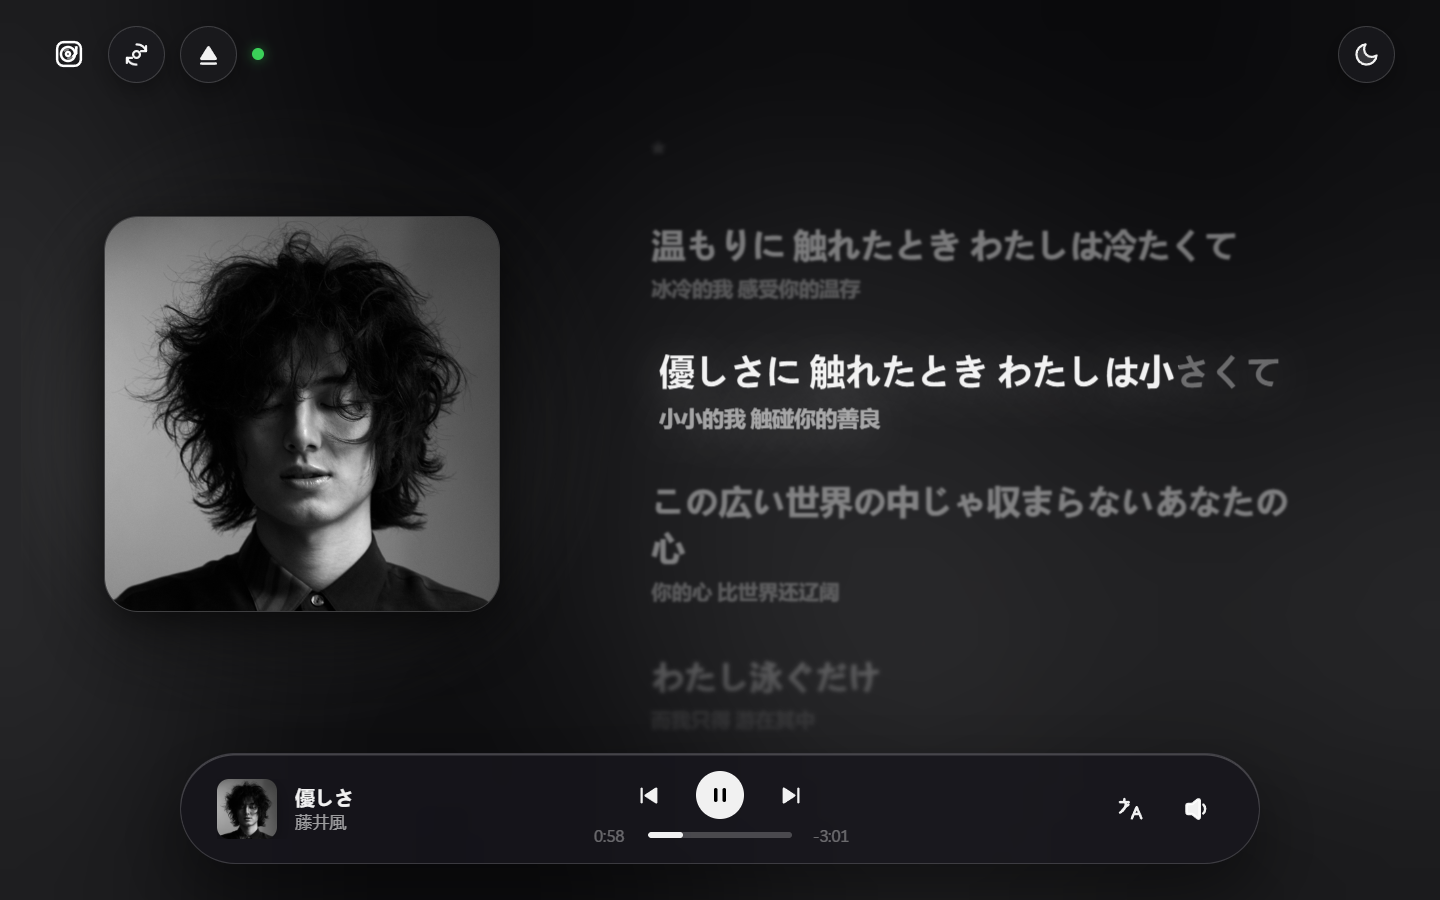
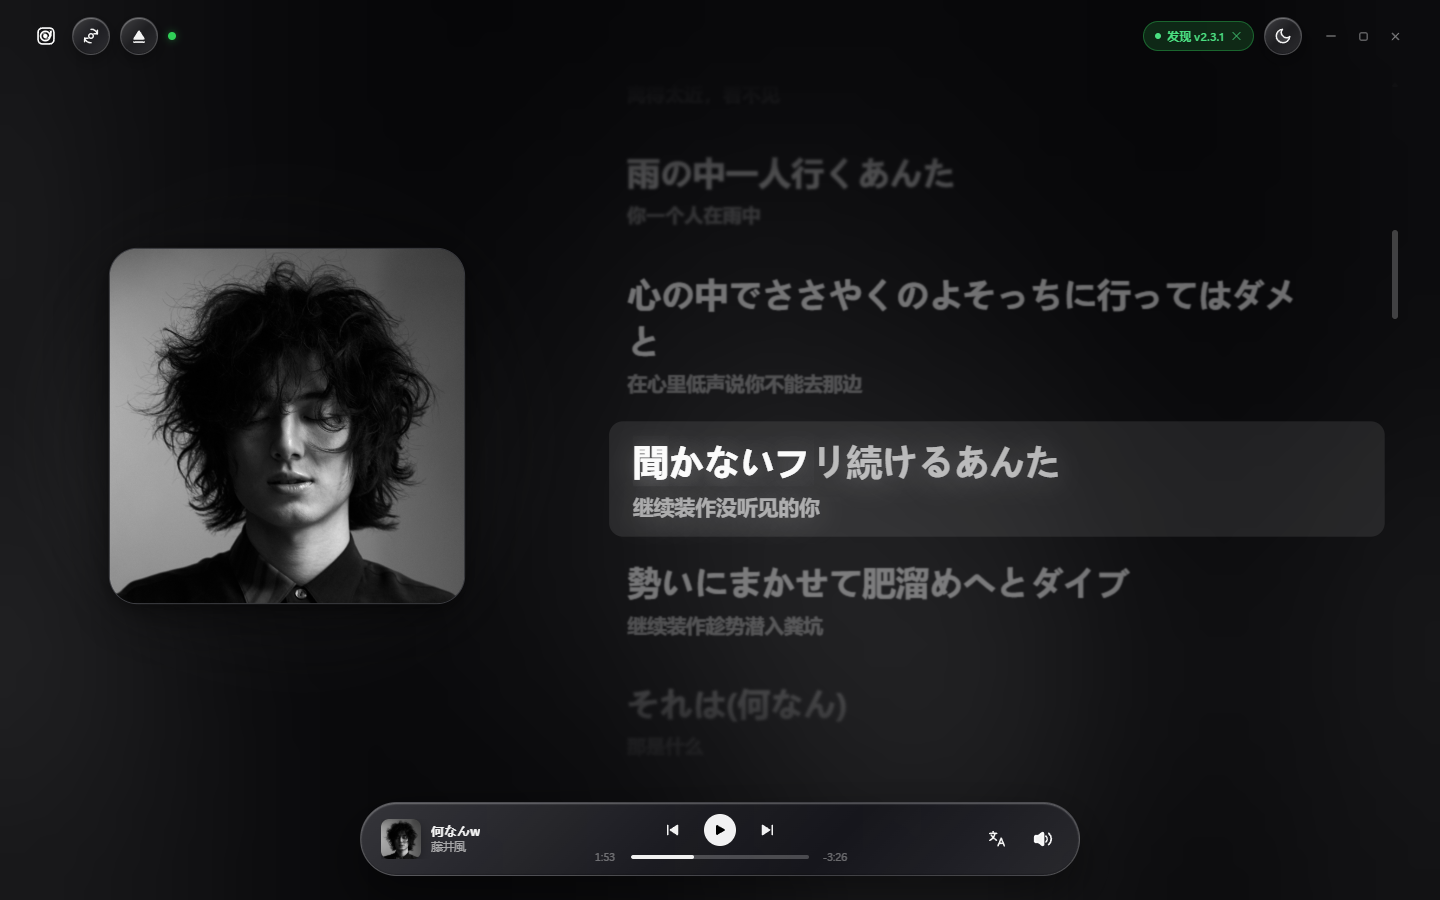
docs: 更新官网至 Discflow v2.3.1 并替换全新实机演示截图

diff --git a/index.html b/index.html
@@ -4,7 +4,7 @@
   <meta charset="UTF-8">
   <meta name="viewport" content="width=device-width, initial-scale=1.0">
   <title>Discflow — 献给实体唱片的 Windows 原生播放器</title>
-  <meta name="description" content="Discflow 是一款面向 Windows 的原生 Hi-Fi CD 与无损专辑播放器，支持光驱直读、WAV 无损归档、双语逐字歌词与黑白双主题。">
+  <meta name="description" content="Discflow v2.3.1 是一款面向 Windows 的原生 Hi-Fi CD 与无损专辑播放器，支持光驱直读、零拷贝 WAV 极速归档、双语逐字歌词、黑白双主题与应用内自更新。">
   <link rel="icon" type="image/svg+xml" href="assets/icon.svg?v=2">
   <link rel="preconnect" href="https://fonts.googleapis.com">
   <link rel="preconnect" href="https://fonts.gstatic.com" crossorigin>
@@ -35,9 +35,9 @@
 
       <div class="nav-actions">
         <a href="https://github.com/JiAng10es/Discflow" target="_blank" rel="noopener noreferrer" class="nav-ghost-link">GitHub 源码</a>
-        <a href="https://github.com/JiAng10es/Discflow/releases/download/v2.0.7/Discflow.exe" class="btn btn--primary btn--sm">
+        <a href="https://github.com/JiAng10es/Discflow/releases/download/v2.3.1/Discflow.exe" class="btn btn--primary btn--sm">
           <i data-lucide="download" width="15" height="15"></i>
-          <span>下载 Windows 版</span>
+          <span>下载 v2.3.1</span>
         </a>
         <button type="button" class="mobile-menu-btn" id="mobile-menu-btn" aria-label="打开导航菜单" aria-expanded="false" aria-controls="mobile-drawer">
           <i data-lucide="menu" width="18" height="18"></i>
@@ -69,19 +69,19 @@
       <div class="container hero-inner">
         <div class="hero-badge">
           <span class="hero-badge-dot" aria-hidden="true"></span>
-          <span>Windows 原生 Hi-Fi CD 播放器 · 单文件便携</span>
+          <span>Discflow v2.3.1 · Windows 10/11 单文件便携 · 应用内直下更新</span>
         </div>
 
         <h1 class="hero-title">把实体唱片放回桌面中央</h1>
 
         <p class="hero-subtitle">
-          放入光盘即可直接读取原盘音轨，也能将整张专辑无损归档为本地 WAV。没有流媒体压缩与算法插播，只留下唱片本来的声音与顺序。
+          放入光盘即可无损直读原盘音轨并无缝跨轨播放，也能以 64 扇区零拷贝归档为本地 WAV。无边框原生圆角窗体，只留下唱片本来的声音与顺序。
         </p>
 
         <div class="hero-cta-row">
-          <a href="https://github.com/JiAng10es/Discflow/releases/download/v2.0.7/Discflow.exe" class="btn btn--primary btn--lg">
+          <a href="https://github.com/JiAng10es/Discflow/releases/download/v2.3.1/Discflow.exe" class="btn btn--primary btn--lg">
             <i data-lucide="download" width="18" height="18"></i>
-            <span>下载 Windows 便携版</span>
+            <span>下载 Windows 便携版 (v2.3.1)</span>
           </a>
           <a href="#manifesto" class="btn btn--secondary btn--lg">
             <span>了解设计理念</span>
@@ -92,16 +92,16 @@
           <div class="media-toolbar">
             <div class="segmented" role="tablist" aria-label="主视觉专辑视图切换">
               <button type="button" class="seg-btn is-active" role="tab" aria-selected="true" data-hero-view="fujii">藤井風《HELP EVER HURT NEVER》</button>
-              <button type="button" class="seg-btn" role="tab" aria-selected="false" data-hero-view="tokyo">東京事変《大人》</button>
+              <button type="button" class="seg-btn" role="tab" aria-selected="false" data-hero-view="queue">曲目队列 · 一键重刷歌词</button>
             </div>
-            <span id="hero-showcase-caption" style="font-size:12.5px;color:var(--text-secondary);">藤井風《HELP EVER HURT NEVER》· 16-Bit / 44.1 kHz 光驱直读</span>
+            <span id="hero-showcase-caption" style="font-size:12.5px;color:var(--text-secondary);">藤井風《HELP EVER HURT NEVER》· 无边框圆角 · 16-Bit / 44.1 kHz</span>
           </div>
           <img
             id="hero-showcase-img"
             src="assets/hero_fujii_player_dark.png"
             width="1440"
             height="900"
-            alt="Discflow 播放主界面 - 藤井風《HELP EVER HURT NEVER》"
+            alt="Discflow v2.3.1 播放主界面 - 藤井風《HELP EVER HURT NEVER》"
             data-zoomable
           >
         </div>
@@ -117,16 +117,16 @@
             <span class="stat-lbl">CD-DA 原生采样位深</span>
           </div>
           <div class="stat-cell">
-            <span class="stat-val">44.1 kHz</span>
-            <span class="stat-lbl">红皮书标准原盘频率</span>
+            <span class="stat-val">Gapless</span>
+            <span class="stat-lbl">双缓冲内存预读无缝跨轨播放</span>
           </div>
           <div class="stat-cell">
-            <span class="stat-val">0 损耗</span>
-            <span class="stat-lbl">光驱直读与 WAV 转录均不压缩</span>
+            <span class="stat-val">64 扇区</span>
+            <span class="stat-lbl">零拷贝极速抓轨与划痕单扇区容错</span>
           </div>
           <div class="stat-cell">
-            <span class="stat-val">13.9 MB</span>
-            <span class="stat-lbl">单文件便携，免安装即开即听</span>
+            <span class="stat-val">14.6 MB</span>
+            <span class="stat-lbl">单文件便携，支持软件内自动更新</span>
           </div>
         </div>
       </div>
@@ -150,29 +150,26 @@
             <i data-lucide="captions" width="14" height="14"></i>
             <span>双语逐字歌词</span>
           </div>
-          <h2 class="section-title">外语原文与中文译词同步滚动</h2>
+          <h2 class="section-title">外语原文与中文译词同步逐字滚动</h2>
           <p class="section-desc">
-            整合 QQ 音乐、iTunes 与网易云三源词库，自动匹配并实现音节级逐字渐变高亮。遇到时间轴微差时，可直接在窗口内手动前后偏移校准。
+            整合网易云 <code>yrc</code>、QQ 音乐与 LRCLIB 多源词库，支持日文假名音拍 (Mora) 聚合分词与片头「作词 / 作曲」降噪展示，配合快捷键 <code>[</code> / <code>]</code> 毫秒级校准时间轴。
           </p>
         </div>
 
         <div class="pair-grid">
           <div class="pair-card">
-            <picture class="dynamic-karaoke-pic">
-              <source srcset="assets/lyrics_tokyo_player_dark.png" media="(prefers-reduced-motion: reduce)">
-              <img src="assets/lyrics_dynamic_karaoke.webp" width="1210" height="678" loading="lazy" alt="逐字歌词动态卡拉OK填充与滚动动效" data-zoomable>
-            </picture>
+            <img src="assets/lyrics_tokyo_player_dark.png" width="1440" height="900" loading="lazy" alt="Discflow 日文音拍逐字歌词与片头降噪实机截图" data-zoomable>
             <div class="pair-caption">
-              <span>逐字歌词实时滚动演示</span>
-              <span style="font-family:var(--font-mono);font-size:11.5px;">QQ / iTunes / 网易云</span>
+              <span>音拍级逐字高亮与片头信息降噪</span>
+              <span style="font-family:var(--font-mono);font-size:11.5px;">网易云 yrc / QQ / LRCLIB</span>
             </div>
           </div>
 
           <div class="pair-card">
-            <img src="assets/lyric-match.jpg" width="880" height="926" loading="lazy" alt="Discflow 歌词检索与时间轴微调界面截图" data-zoomable>
+            <img src="assets/album_match_dark.png" width="1440" height="900" loading="lazy" alt="Discflow 三源专辑与曲目智能匹配界面截图" data-zoomable>
             <div class="pair-caption">
-              <span>多源歌词检索与时间轴纠偏</span>
-              <span style="font-family:var(--font-mono);font-size:11.5px;">毫秒级微调</span>
+              <span>三源专辑匹配 · 自动补齐曲目 ID</span>
+              <span style="font-family:var(--font-mono);font-size:11.5px;">一键整碟升级歌词</span>
             </div>
           </div>
         </div>
@@ -208,9 +205,9 @@
             </div>
           </div>
           <div class="pair-card">
-            <img src="assets/lyrics_tokyo_player_dark.png" width="1440" height="900" loading="lazy" alt="東京事変《大人》深色主题双语歌词" data-zoomable>
+            <img src="assets/lyrics_tokyo_player_dark.png" width="1440" height="900" loading="lazy" alt="椎名林檎《無罪モラトリアム》深色主题双语歌词" data-zoomable>
             <div class="pair-caption">
-              <span>東京事変《大人》双语歌词</span>
+              <span>椎名林檎《無罪モラトリアム》双语歌词</span>
               <span style="font-family:var(--font-mono);font-size:11.5px;">Dark Mode</span>
             </div>
           </div>
@@ -225,9 +222,9 @@
             </div>
           </div>
           <div class="pair-card">
-            <img src="assets/lyrics_tokyo_player_light.png" width="1440" height="900" loading="lazy" alt="東京事変《大人》浅色主题双语歌词" data-zoomable>
+            <img src="assets/lyrics_tokyo_player_light.png" width="1440" height="900" loading="lazy" alt="椎名林檎《無罪モラトリアム》浅色主题双语歌词" data-zoomable>
             <div class="pair-caption">
-              <span>東京事変《大人》双语歌词</span>
+              <span>椎名林檎《無罪モラトリアム》双语歌词</span>
               <span style="font-family:var(--font-mono);font-size:11.5px;">Light Mode</span>
             </div>
           </div>
@@ -243,26 +240,26 @@
             <i data-lucide="library" width="14" height="14"></i>
             <span>本地无损资料库</span>
           </div>
-          <h2 class="section-title">归档成纯正 WAV，离线也能随时开听</h2>
+          <h2 class="section-title">零拷贝极速抓轨，归档为纯正 WAV</h2>
           <p class="section-desc">
-            逐扇区无损转录并连同封面、曲目表与双语歌词一并存入本地。四列陈列架支持多维度排序与即时检索，还能一键匹配高清专辑封套。
+            64 扇区大批量直读配合 1MB 流式缓冲写入，抓轨期间自动隔离巡检与播放竞争并实时展示倍速与速率。四列黑胶陈列架支持即时搜索、ZIP 备份与离线无损回放。
           </p>
         </div>
 
         <div class="pair-grid">
           <div class="pair-card">
-            <img src="assets/library.jpg" width="1400" height="885" loading="lazy" alt="Discflow 实体唱片资料库实机截图" data-zoomable>
+            <img src="assets/library_shelf_dark.png" width="1440" height="900" loading="lazy" alt="Discflow v2.3.1 四列黑胶资料库实机截图" data-zoomable>
             <div class="pair-caption">
               <span>本地无损唱片陈列架</span>
-              <span style="font-family:var(--font-mono);font-size:11.5px;">排序与快速检索</span>
+              <span style="font-family:var(--font-mono);font-size:11.5px;">四列货架 · 即时检索</span>
             </div>
           </div>
 
           <div class="pair-card">
-            <img src="assets/album-match.jpg" width="880" height="926" loading="lazy" alt="Discflow 专辑封面匹配界面截图" data-zoomable>
+            <img src="assets/rip_modal_dark.png" width="1440" height="900" loading="lazy" alt="Discflow 极速 CD 抓轨与实时倍速弹窗截图" data-zoomable>
             <div class="pair-caption">
-              <span>高清专辑封面一键匹配</span>
-              <span style="font-family:var(--font-mono);font-size:11.5px;">MusicBrainz / iTunes / 网易云</span>
+              <span>无损 WAV 极速抓轨归档</span>
+              <span style="font-family:var(--font-mono);font-size:11.5px;">实时倍速 · 划痕单扇区容错</span>
             </div>
           </div>
         </div>
@@ -277,14 +274,28 @@
             <i data-lucide="sliders-horizontal" width="14" height="14"></i>
             <span>系统偏好设置</span>
           </div>
-          <h2 class="section-title">顶栏、Dock 的透明度与模糊度都能调</h2>
+          <h2 class="section-title">macOS 分栏设置与应用内直下更新</h2>
           <p class="section-desc">
-            固定窗口比例与滚动槽预留机制，切换设置分类不会出现界面跳动。高斯模糊半径与背景透明度无级可调，把视觉分寸交给自己。
+            700×540 左侧分栏导航划分「外观与歌词 / 播放与硬件 / 存储与数据 / 关于 Discflow」，支持滑块透视预览底栏透明度；检测到新版本后直接在软件内下载覆盖并自动重启。
           </p>
         </div>
 
-        <div class="media-frame media-frame--narrow">
-          <img src="assets/settings.jpg" width="880" height="765" loading="lazy" alt="Discflow 系统偏好设置中心实机截图" data-zoomable>
+        <div class="pair-grid">
+          <div class="pair-card">
+            <img src="assets/settings_modal_dark.png" width="1440" height="900" loading="lazy" alt="Discflow macOS 分栏式系统偏好设置（深色主题）" data-zoomable>
+            <div class="pair-caption">
+              <span>分栏设置 · 外观与玻璃参数</span>
+              <span style="font-family:var(--font-mono);font-size:11.5px;">滑块实时透视预览</span>
+            </div>
+          </div>
+
+          <div class="pair-card">
+            <img src="assets/settings_update_light.png" width="1440" height="900" loading="lazy" alt="Discflow 应用内自动检测更新与一键覆盖安装（浅色主题）" data-zoomable>
+            <div class="pair-caption">
+              <span>关于与更新 · 软件内直下安装</span>
+              <span style="font-family:var(--font-mono);font-size:11.5px;">PE 校验 · 静默重启</span>
+            </div>
+          </div>
         </div>
       </div>
     </section>
@@ -309,9 +320,9 @@
           绿色单文件便携 · 不写注册表 · 零广告零捆绑
         </p>
         <div class="hero-cta-row" style="margin-bottom:0;">
-          <a href="https://github.com/JiAng10es/Discflow/releases/download/v2.0.7/Discflow.exe" class="btn btn--primary btn--lg">
+          <a href="https://github.com/JiAng10es/Discflow/releases/download/v2.3.1/Discflow.exe" class="btn btn--primary btn--lg">
             <i data-lucide="download" width="18" height="18"></i>
-            <span>下载 Windows 版 (13.9 MB)</span>
+            <span>下载 Windows 版 (v2.3.1 · 14.6 MB)</span>
           </a>
           <a href="https://github.com/JiAng10es/Discflow" target="_blank" rel="noopener noreferrer" class="btn btn--secondary btn--lg">
             <i data-lucide="github" width="18" height="18"></i>

diff --git a/main.js b/main.js
@@ -28,17 +28,17 @@ document.addEventListener('DOMContentLoaded', () => {
     });
   }
 
-  // 2. Hero Showcase Switcher (Fujii Kaze & Tokyo Jihen)
+  // 2. Hero Showcase Switcher (Fujii Kaze & Queue Refresh)
   const heroViews = {
     fujii: {
       src: 'assets/hero_fujii_player_dark.png',
-      alt: 'Discflow 播放主界面 - 藤井風《HELP EVER HURT NEVER》',
-      caption: '藤井風《HELP EVER HURT NEVER》· 16-Bit / 44.1 kHz 光驱直读'
+      alt: 'Discflow v2.3.1 播放主界面 - 藤井風《HELP EVER HURT NEVER》',
+      caption: '藤井風《HELP EVER HURT NEVER》· 无边框圆角 · 16-Bit / 44.1 kHz'
     },
-    tokyo: {
-      src: 'assets/lyrics_tokyo_player_dark.png',
-      alt: 'Discflow 播放主界面 - 東京事変《大人》双语歌词同步',
-      caption: '東京事変《大人》· 双语逐字歌词与专辑封面同框'
+    queue: {
+      src: 'assets/queue_refresh_dark.png',
+      alt: 'Discflow v2.3.1 曲目队列与一键重刷歌词界面',
+      caption: '曲目队列 · 支持整碟一键「重刷歌词」与三源专辑匹配'
     }
   };
 
